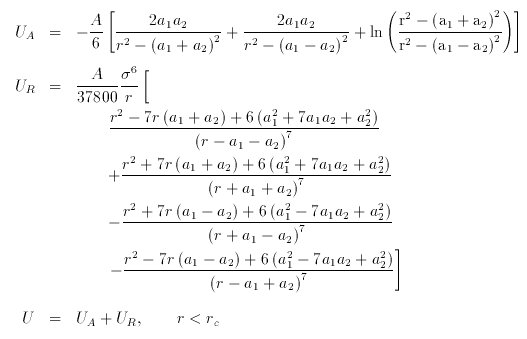
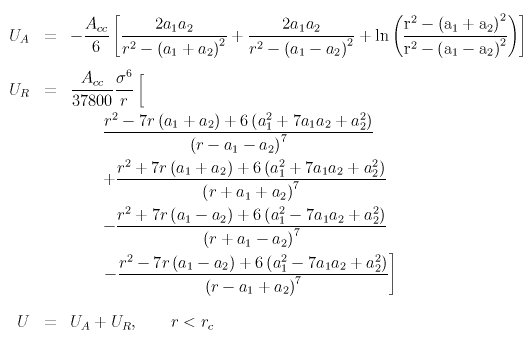
git-svn-id: svn://svn.icms.temple.edu/lammps-ro/trunk@1089 f3b2605a-c512-4ea7-a41b-209d697bcdaa

diff --git a/Eqs/pair_colloid_cc.tex b/Eqs/pair_colloid_cc.tex
@@ -3,7 +3,7 @@
 \begin{document}
 
 \begin{eqnarray}
-U_A &=& - \frac{A}{6} \left[
+U_A &=& - \frac{A_{cc}}{6} \left[
 	\frac{2 a_1 a_2}{r^2-\left(a_1+a_2\right)^2}
 	+ \frac{2 a_1 a_2}{r^2 - \left(a_1 - a_2\right)^2}
 	+ \mathrm{ln}
@@ -12,7 +12,7 @@ U_A &=& - \frac{A}{6} \left[
 				\right)
 \right] \nonumber \\
 \nonumber \\
-U_R &=& \frac{A}{37800}  \frac{\sigma^6}{r}
+U_R &=& \frac{A_{cc}}{37800}  \frac{\sigma^6}{r}
 \left[ \frac{}{} \right. \nonumber \\
 	&&\qquad		\frac{r^2-7r\left(a_1+a_2\right)+6\left(a_1^2+7a_1a_2+a_2^2\right)}
 					{\left(r-a_1-a_2\right)^7} \nonumber \\

diff --git a/Eqs/pair_colloid_cs.tex b/Eqs/pair_colloid_cs.tex
@@ -3,7 +3,7 @@
 \begin{document}
 
 \begin{eqnarray}
-	U &=& \frac{2 ~ a^3 ~ \sigma^3 ~ A}{9 \left( a^2 - r^2 \right)^3} 
+	U &=& \frac{2 ~ a^3 ~ \sigma^3 ~ A_{cs}}{9 \left( a^2 - r^2 \right)^3} 
  \left[ 1 - \frac{\left(5 ~ a^6+45~a^4~r^2+63~a^2~r^4+15~r^6\right) \sigma^6}
  {15 \left(a-r\right)^6 \left( a+r \right)^6} \right], ~~ r < r_c \nonumber
 \end{eqnarray}

diff --git a/Eqs/pair_colloid_ss.tex b/Eqs/pair_colloid_ss.tex
@@ -3,7 +3,9 @@
 \begin{document}
 
 \begin{eqnarray}
-	U &=& \frac{A}{36}  \left[ \left( \frac{\sigma}{r} \right)^{12} - \left( \frac{ \sigma}{r} \right)^6 \right], ~~ r < r_c \nonumber
+	U &=& \frac{A_{ss}}{36} \left[ \left( \frac{\sigma}{r}
+	\right)^{12} - \left( \frac{ \sigma}{r} \right)^6 \right], ~~
+	r < r_c \nonumber
 \end{eqnarray}
 
 \end{document}
